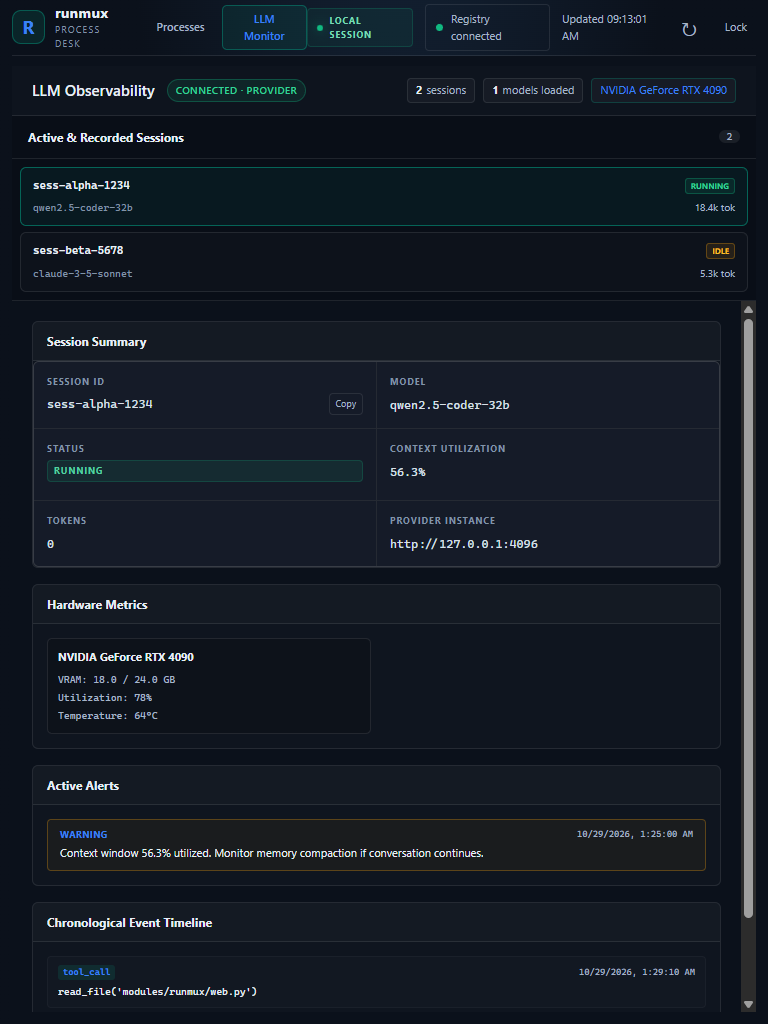
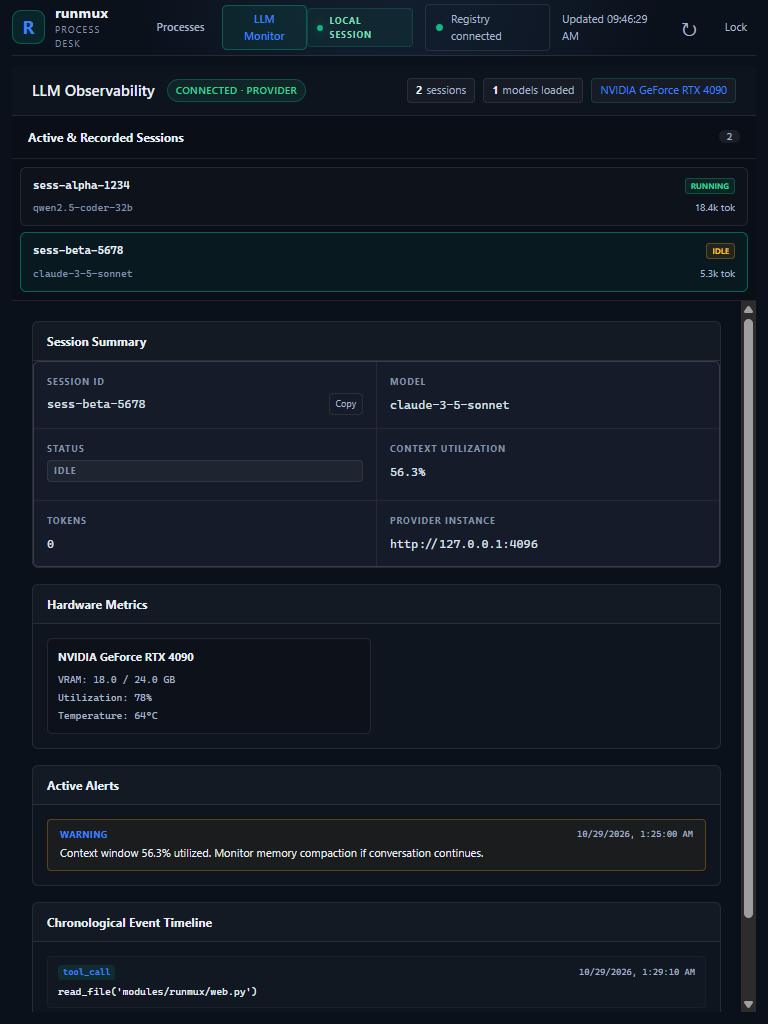
fix(runmux): harden dynamic class sanitization, 401 lock handling, and e2e coverage

diff --git a/modules/runmux/src/runmux/web_static/assets/llm-monitor.js b/modules/runmux/src/runmux/web_static/assets/llm-monitor.js
@@ -62,7 +62,8 @@
       return badge;
     }
 
-    const avail = status.availability || "unknown";
+    const rawAvail = String(status.availability || "unknown");
+    const avail = rawAvail.toLowerCase().replace(/[^a-z0-9_-]/g, "-");
     badge.classList.add(avail);
     if (avail === "available") {
       const provider = status.configured_provider || "Provider";
@@ -195,8 +196,10 @@
       const idEl = makeEl("span", "session-id-text", session.session_id);
       idEl.title = session.session_id;
 
-      const statusText = (session.state || session.status || "active").toLowerCase();
-      const statusPill = makeEl("span", `session-status-pill ${statusText}`, statusText);
+      const rawStatus = String(session.state || session.status || "active");
+      const statusText = rawStatus.toLowerCase();
+      const statusClass = statusText.replace(/[^a-z0-9_-]/g, "-");
+      const statusPill = makeEl("span", `session-status-pill ${statusClass}`, statusText);
       cardHead.append(idEl, statusPill);
 
       const cardBody = makeEl("div", "session-card-body");
@@ -283,6 +286,10 @@
     } catch (err) {
       if (signal.aborted || currentGeneration !== requestGeneration) return;
       detailLoading = false;
+      if (err && err.message === "locked") {
+        globalThis.showLogin?.("Session expired. Enter the current terminal login code again.");
+        return;
+      }
       if (err.status === 404) {
         detailError = { type: "404", message: "LLM session not found or expired from provider." };
       } else if (err.status === 503) {
@@ -375,7 +382,8 @@
     }
 
     if (detailError) {
-      const errBox = makeEl("div", `monitor-error-box ${detailError.type}`);
+      const errType = String(detailError.type || "error").toLowerCase().replace(/[^a-z0-9_-]/g, "-");
+      const errBox = makeEl("div", `monitor-error-box ${errType}`);
       errBox.append(
         makeEl("h4", null, detailError.type === "404" ? "Session Missing" : "Provider Unavailable"),
         makeEl("p", null, detailError.message)
@@ -418,7 +426,9 @@
     // State
     const stateItem = makeEl("div", "detail-item");
     stateItem.append(makeEl("span", "detail-label", "STATUS"));
-    stateItem.append(makeEl("span", `status-badge ${summary.state || summary.status || "active"}`, summary.state || summary.status || "active"));
+    const rawState = String(summary.state || summary.status || "active");
+    const stateClass = rawState.toLowerCase().replace(/[^a-z0-9_-]/g, "-");
+    stateItem.append(makeEl("span", `status-badge ${stateClass}`, rawState));
 
     // Context utilization
     const utilItem = makeEl("div", "detail-item");
@@ -538,7 +548,9 @@
 
     const list = makeEl("ul", "alerts-list");
     for (const alert of alerts) {
-      const item = makeEl("li", `alert-item severity-${(alert.severity || "info").toLowerCase()}`);
+      const rawSev = String(alert.severity || "info");
+      const sevClass = rawSev.toLowerCase().replace(/[^a-z0-9_-]/g, "-");
+      const item = makeEl("li", `alert-item severity-${sevClass}`);
       const head = makeEl("div", "alert-head");
       head.append(
         makeEl("span", "alert-severity", (alert.severity || "INFO").toUpperCase()),
@@ -642,8 +654,11 @@
         }
       }
     } catch (err) {
-      if (!abortController.signal.aborted) {
-        // If locked, let host handle
+      if (abortController && !abortController.signal.aborted) {
+        if (err && err.message === "locked") {
+          globalThis.showLogin?.("Session expired. Enter the current terminal login code again.");
+          return;
+        }
       }
     } finally {
       isPolling = false;
@@ -668,8 +683,10 @@
       }
       updateHeaderStats();
       updateSessionList();
-    } catch {
-      // Keep default
+    } catch (err) {
+      if (err && err.message === "locked") {
+        globalThis.showLogin?.("Session expired. Enter the current terminal login code again.");
+      }
     }
   }
 

diff --git a/modules/runmux/tests/llm_monitor_browser_e2e_test.js b/modules/runmux/tests/llm_monitor_browser_e2e_test.js
@@ -334,6 +334,34 @@ async function runLLMMonitorBrowserE2E() {
     assert.equal(detailState.eventsCount, 2);
     console.log("Verified session detail diagnostics, hardware metrics, alerts, and timeline.");
 
+    // 5b. Select second session (sess-beta-5678)
+    console.log("Selecting second session sess-beta-5678...");
+    await evaluate(`(function() {
+      const cards = document.querySelectorAll(".monitor-session-card");
+      cards[1].click();
+    })()`);
+    await sleep(600);
+
+    const secondSessionState = await evaluate(`(function() {
+      const items = Array.from(document.querySelectorAll(".detail-item"));
+      const map = {};
+      for (const item of items) {
+        const label = item.querySelector(".detail-label")?.textContent.trim();
+        const code = item.querySelector("code, span.status-badge")?.textContent.trim();
+        if (label) map[label] = code;
+      }
+      return {
+        selectedId: document.querySelector(".monitor-session-card.selected .session-id-text")?.textContent.trim(),
+        modelText: map["MODEL"],
+        statusText: map["STATUS"],
+      };
+    })()`);
+
+    assert.equal(secondSessionState.selectedId, "sess-beta-5678");
+    assert.equal(secondSessionState.modelText, "claude-3-5-sonnet");
+    assert.equal(secondSessionState.statusText, "idle");
+    console.log("Verified switching to second session updates diagnostics and status.");
+
     // 6. Responsive viewports and screenshots
     const viewports = [
       { name: "desktop_1920", width: 1920, height: 1080, mobile: false },
@@ -400,6 +428,25 @@ async function runLLMMonitorBrowserE2E() {
     assert.equal(logoutState.dashboardHidden, true);
     assert.equal(logoutState.monitorStatus, null);
     console.log("Verified logout clears authentication, stops monitor polling, and resets state.");
+
+    // 9. Test Reauthentication
+    console.log("Testing reauthentication after logout...");
+    await evaluate(`(function() {
+      const input = document.querySelector("#login-code");
+      input.value = "${loginCode}";
+      document.querySelector("#login-form").dispatchEvent(new Event("submit", { bubbles: true, cancelable: true }));
+    })()`);
+    await sleep(800);
+
+    const reloginState = await evaluate(`({
+      loginHidden: Boolean(document.querySelector("#login-view")?.hidden),
+      dashboardVisible: !document.querySelector("#dashboard")?.hidden,
+      monitorAvail: window.RunmuxLLMMonitor?.getStatus()?.availability,
+    })`);
+    assert.equal(reloginState.loginHidden, true);
+    assert.equal(reloginState.dashboardVisible, true);
+    assert.equal(reloginState.monitorAvail, "available");
+    console.log("Verified reauthentication restores dashboard and re-initializes monitor availability.");
 
     console.log("\n================================================");
     console.log("ALL REAL BROWSER LLM MONITOR E2E TESTS PASSED!");

diff --git a/modules/runmux/tests/llm_monitor_view_test.js b/modules/runmux/tests/llm_monitor_view_test.js
@@ -411,7 +411,63 @@ async function runTests() {
     console.log("✓ Test 5: Outdated async race protection verified");
   }
 
-  console.log("\nALL 5 llm_monitor_view_test.js TEST SUITES PASSED!");
+  // --- Test 6: Auth locked (401) handling and dynamic class sanitization ---
+  {
+    let showLoginCalledWith = null;
+    const container = makeElement("div");
+    container.id = "llm-monitor-workspace";
+    const harness = createTestHarness(container);
+    harness.context.showLogin = (msg) => { showLoginCalledWith = msg; };
+    harness.context.globalThis.showLogin = (msg) => { showLoginCalledWith = msg; };
+
+    harness.responses.set("/api/llm-monitor/v1/status", () => ({
+      json: async () => ({
+        schema_version: 1,
+        availability: "available",
+        configured_provider: "opencode",
+      }),
+    }));
+
+    // Return malformed / adversarial session state to test class sanitization
+    harness.responses.set("/api/llm-monitor/v1/snapshot", () => ({
+      json: async () => ({
+        schema_version: 1,
+        system: { total_sessions: 1, loaded_models: [] },
+        sessions: [
+          {
+            provider_instance_id: "http://127.0.0.1:4096",
+            session_id: "sec-sess",
+            model: "qwen",
+            state: "ACTIVE; color: red\" <script>",
+          },
+        ],
+      }),
+    }));
+
+    harness.Monitor.start(container, harness.api);
+    harness.Monitor.onVisibilityChange(true);
+    await new Promise((r) => setTimeout(r, 40));
+
+    const pill = container.querySelector(".session-status-pill");
+    assert.ok(pill, "Status pill must exist");
+    assert.equal(pill.className.includes("<script>"), false, "Must sanitize dynamic class");
+    assert.equal(pill.className.includes("active--color--red---script-"), true, "Must normalize to safe CSS identifier");
+
+    // Test auth locked error
+    harness.responses.set("/api/llm-monitor/v1/sessions/detail", () => {
+      throw new Error("locked");
+    });
+
+    harness.Monitor.selectSession("http://127.0.0.1:4096", "sec-sess");
+    await new Promise((r) => setTimeout(r, 40));
+
+    assert.ok(showLoginCalledWith, "showLogin must be called on 401 locked error");
+    assert.ok(showLoginCalledWith.includes("Session expired"), "Must present session expired message");
+
+    console.log("✓ Test 6: Auth locked (401) handling and dynamic class sanitization verified");
+  }
+
+  console.log("\nALL 6 llm_monitor_view_test.js TEST SUITES PASSED!");
 }
 
 runTests().catch((err) => {

diff --git a/modules/runmux/tests/historical_runs_api_test.py b/modules/runmux/tests/historical_runs_api_test.py
@@ -327,7 +327,9 @@ def test_ten_thousand_run_registry_queries_remain_page_bounded(tmp_path: Path) -
         assert removed_from_filter not in after_ids
         assert len(after_ids) == 50
         assert len(before_ids - after_ids) == 1
-        assert len(after_ids - before_ids) == 1, "A later record shifts into the page after a matching run leaves the filter"
+        assert len(after_ids - before_ids) == 1, (
+            "A later record shifts into the page after a matching run leaves the filter"
+        )
         assert after_payload["has_more"] is False
 
         maximum = client.get("/api/runs/history", params={"limit": 200})

diff --git a/modules/runmux/docs/plans/20261029-0135_runmux-llm-monitor-host-integration/STATUS.md b/modules/runmux/docs/plans/20261029-0135_runmux-llm-monitor-host-integration/STATUS.md
@@ -31,6 +31,13 @@
 - Clean logout/lock teardown canceling in-flight `AbortController`s and resetting cached state.
 - Compact mobile responsive styles avoiding page overflow across all tested viewports (390px to 2560px).
 
+
+### Independent Final Review Hardening
+- **Dynamic CSS Class Sanitization:** Sanitized all provider-controlled class names (`status.availability`, `session.state`, `alert.severity`, `detailError.type`) via `.toLowerCase().replace(/[^a-z0-9_-]/g, "-")` to eliminate any potential style injection or malformed class token surface.
+- **Session Expiration / Lock (401) Handling:** Added explicit checks for `err.message === "locked"` across all API calls in `llm-monitor.js` (`pollSnapshot`, `fetchSessionDiagnostics`, `initStatus`), halting polling immediately and triggering `globalThis.showLogin` to show the session expired message.
+- **Linter Compliance:** Wrapped long assertion line in `historical_runs_api_test.py` to satisfy Ruff 120-character limit.
+- **Extended Test Coverage:** Added Test 6 to `llm_monitor_view_test.js` for 401 handling and class sanitization; extended `llm_monitor_browser_e2e_test.js` with second session selection and reauthentication verification.
+
 ## Verification Evidence
 
 - `node modules/runmux/tests/llm_monitor_view_test.js`: All 5 test suites passed.

diff --git a/modules/runmux/docs/plans/20261029-0135_runmux-llm-monitor-host-integration/checklist.md b/modules/runmux/docs/plans/20261029-0135_runmux-llm-monitor-host-integration/checklist.md
@@ -42,6 +42,12 @@
   - [x] Clean logout/lock teardown canceling in-flight AbortControllers and clearing DOM/state
   - [x] Zero snapshot cache bypass (uses standard `/snapshot` without force_refresh)
   - [x] Mobile responsive viewport bounding (390px, 768px, 1366px, 1920px) with 0 page overflow
+- [x] Final Independent Review Hardening
+  - [x] Sanitize dynamic CSS class identifiers in `llm-monitor.js`
+  - [x] Handle HTTP 401 (session locked) cleanly across polling and diagnostics
+  - [x] Fix Ruff line length in `historical_runs_api_test.py`
+  - [x] Add Test 6 to `llm_monitor_view_test.js`
+  - [x] Add second session selection and reauthentication to `llm_monitor_browser_e2e_test.js`
 - [x] Stage 6: Hardening, Regression & Delivery
   - [x] Unit test suite `llm_monitor_view_test.js` (5 suites passed)
   - [x] Real headless Chrome CDP E2E test `browser_e2e_test.js` passed
